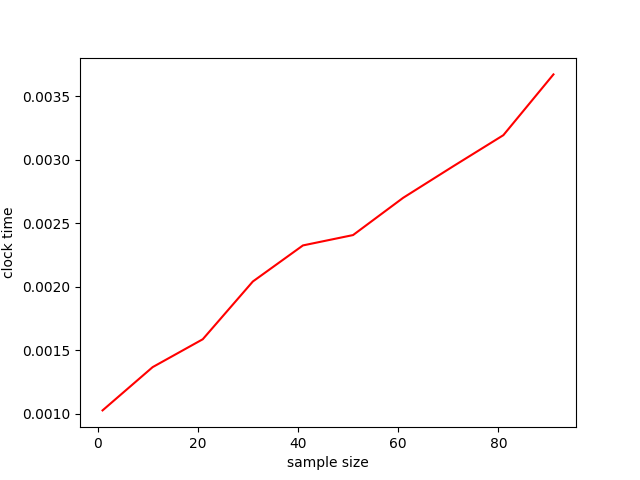
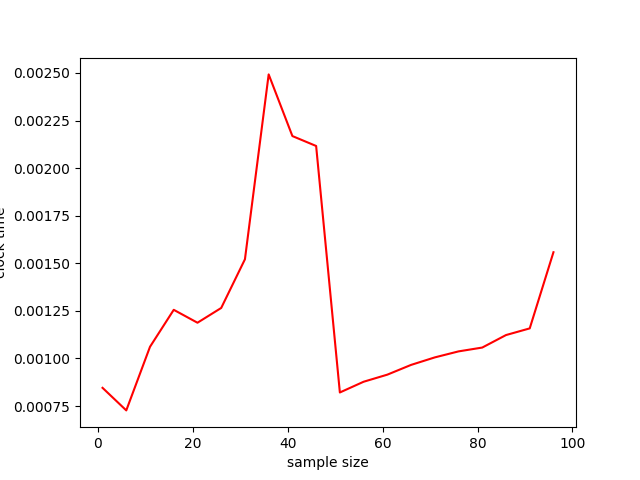
sdfd

diff --git a/HW_2/HW2.py b/HW_2/HW2.py
@@ -762,7 +762,7 @@ def size_test_Cpeaks_RHC():
     time_mean_list = []
     best_fitness_mean_list = []
     alter_list = []
-    for i in range(1, 100, 10):
+    for i in range(1, 100, 5):
         problem_list = generate_prob_Cpeaks(random_seed=0, length = i, sample_size=5)
         time_list = []
         best_fitness_list = []
@@ -794,7 +794,7 @@ def size_test_Cpeaks_SA():
     time_mean_list = []
     best_fitness_mean_list = []
     alter_list = []
-    for i in range(1, 100, 10):
+    for i in range(1, 100, 5):
         problem_list = generate_prob_Cpeaks(random_seed=0, length=i, sample_size=5)
         time_list = []
         best_fitness_list = []
@@ -825,7 +825,7 @@ def size_test_Cpeaks_GA():
     time_mean_list = []
     best_fitness_mean_list = []
     alter_list = []
-    for i in range(1, 100, 10):
+    for i in range(1, 100, 5):
         problem_list = generate_prob_Cpeaks(random_seed=0, length=i, sample_size=5)
         time_list = []
         best_fitness_list = []
@@ -858,7 +858,7 @@ def size_test_Cpeaks_MI():
     time_mean_list = []
     best_fitness_mean_list = []
     alter_list = []
-    for i in range(1, 100, 10):
+    for i in range(1, 100, 5):
         print("cpeask_mi:", i)
         problem_list = generate_prob_Cpeaks(random_seed=0, length=i, sample_size=5)
         time_list = []
@@ -1433,11 +1433,11 @@ if __name__=="__main__":
     # plotting(prob_name="OneMax", algo_name="GA", valuess=size_test_OneMax_GA(), size_plot=True)
     # plotting(prob_name="OneMax", algo_name="MI", valuess=size_test_OneMax_MI(), size_plot=True)  # neet to rerun this
 
-    plotting(prob_name="Cpeaks", algo_name="RHC", valuess=size_test_Cpeaks_RHC(), size_plot=True)
-    plotting(prob_name="Cpeaks", algo_name="SA", valuess=size_test_Cpeaks_SA(), size_plot=True)
-    plotting(prob_name="Cpeaks", algo_name="GA", valuess=size_test_Cpeaks_GA(), size_plot=True)
-    plotting(prob_name="Cpeaks", algo_name="MI", valuess=size_test_Cpeaks_MI(), size_plot=True)
-    # #
+    # plotting(prob_name="Cpeaks", algo_name="RHC", valuess=size_test_Cpeaks_RHC(), size_plot=True)
+    # plotting(prob_name="Cpeaks", algo_name="SA", valuess=size_test_Cpeaks_SA(), size_plot=True)
+    # plotting(prob_name="Cpeaks", algo_name="GA", valuess=size_test_Cpeaks_GA(), size_plot=True)
+    # plotting(prob_name="Cpeaks", algo_name="MI", valuess=size_test_Cpeaks_MI(), size_plot=True)
+    # # #
     # plotting(prob_name="4peaks", algo_name="RHC", valuess=size_test_4peaks_RHC(), size_plot=True)
     # plotting(prob_name="4peaks", algo_name="SA", valuess=size_test_4peaks_SA(), size_plot=True)
     # plotting(prob_name="4peaks", algo_name="GA", valuess=size_test_4peaks_GA(), size_plot=True)
